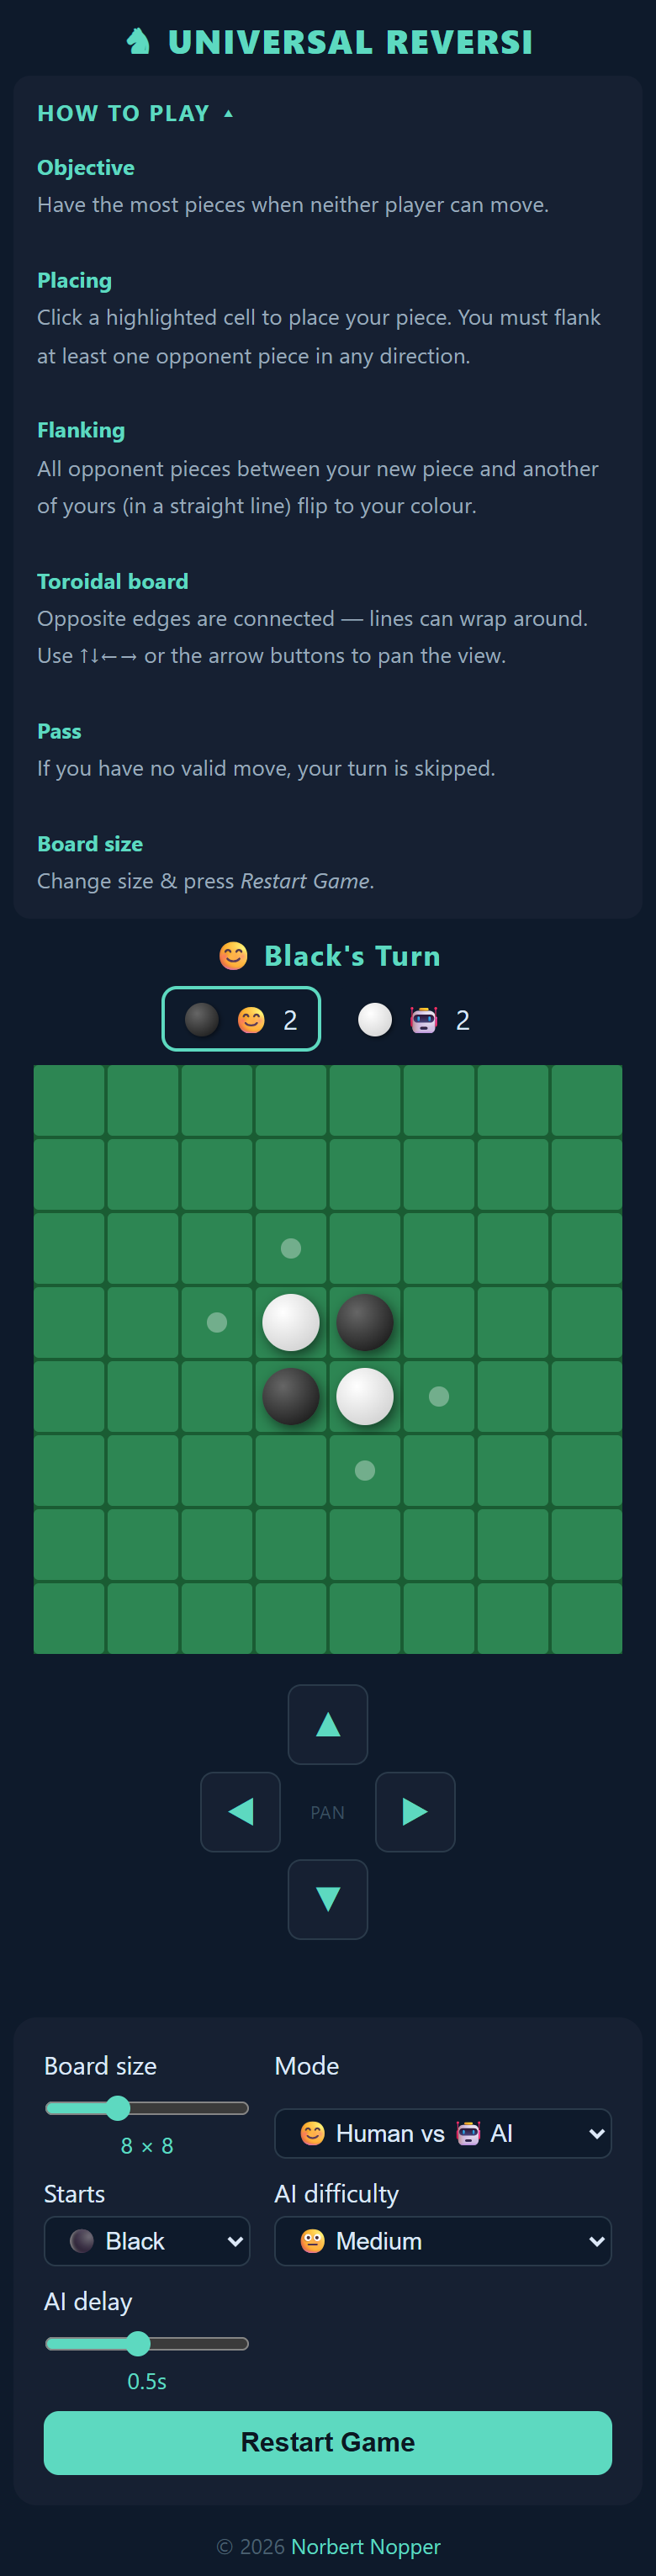
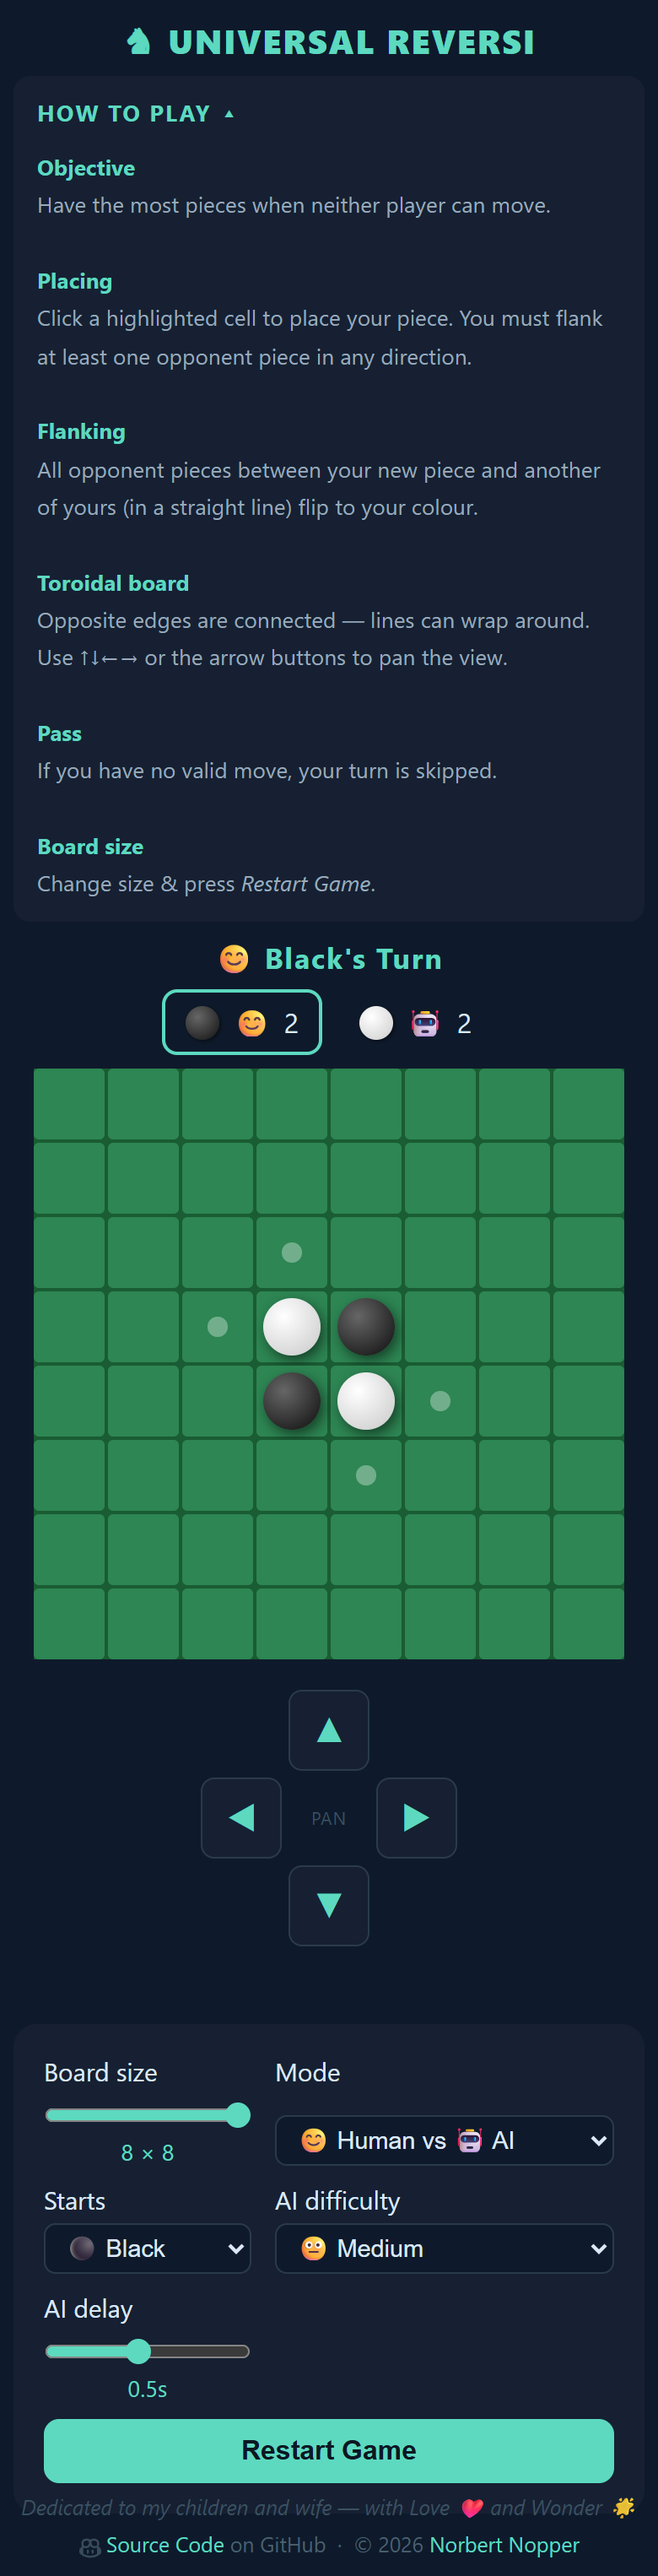
Improving visual quality

diff --git a/index.html b/index.html
@@ -664,7 +664,7 @@ init(); render(); scheduleAI();
 </script>
 
 <footer style="margin-top:-20px; font-size:.78rem; color:#4a6070; text-align:center;">
-  <div style="margin-bottom:6px; font-style:italic; color:#3a5060;">Dedicated to my children and my wife — with Love ❤️ and Wonder 🌟</div>
+  <div style="margin-bottom:6px; font-style:italic; color:#3a5060;">Dedicated to my children and wife — with Love ❤️ and Wonder 🌟</div>
   <svg xmlns="http://www.w3.org/2000/svg"width="13" height="13" viewBox="0 0 16 16" fill="currentColor" style="vertical-align:middle;opacity:.7;" aria-label="GitHub Copilot"><path d="M7.998 15.035c-4.562 0-7.873-2.914-7.998-3.749V9.338c.085-.628.677-1.686 1.588-2.065.013-.07.024-.143.036-.218.029-.183.06-.384.126-.612-.201-.508-.254-1.084-.254-1.656 0-.87.128-1.769.693-2.484.579-.733 1.494-1.124 2.724-1.261 1.206-.134 2.262.034 2.944.765.05.053.096.108.139.165.044-.057.094-.112.143-.165.682-.731 1.738-.899 2.944-.765 1.23.137 2.145.528 2.724 1.261.566.715.693 1.614.693 2.484 0 .572-.053 1.148-.254 1.656.066.228.098.429.126.612.012.076.024.148.037.218.924.385 1.522 1.471 1.591 2.095v1.872c0 .766-3.351 3.795-8.002 3.795Zm0-1.485c2.28 0 4.584-1.11 5.002-1.433V7.862l-.023-.116c-.49.21-1.075.291-1.727.291-1.146 0-2.059-.327-2.71-.991A3.222 3.222 0 0 1 8 6.303a3.24 3.24 0 0 1-.544.743c-.65.664-1.563.991-2.71.991-.652 0-1.236-.081-1.727-.291l-.023.116v4.255c.419.323 2.722 1.433 5.002 1.433ZM6.762 2.83c-.193-.206-.637-.413-1.682-.297-1.019.113-1.479.404-1.713.7-.247.312-.369.789-.369 1.554 0 .793.129 1.171.308 1.371.162.181.519.379 1.442.379.853 0 1.339-.235 1.638-.54.315-.322.527-.827.617-1.553.117-.935-.037-1.395-.241-1.614Zm4.155-.297c-1.044-.116-1.488.091-1.681.297-.204.219-.359.679-.242 1.614.091.726.303 1.231.618 1.553.299.305.784.54 1.638.54.922 0 1.28-.198 1.442-.379.179-.2.308-.578.308-1.371 0-.765-.123-1.242-.37-1.554-.233-.296-.693-.587-1.713-.7Z"/><path d="M6.25 9.037a.75.75 0 0 1 .75.75v1.501a.75.75 0 0 1-1.5 0V9.787a.75.75 0 0 1 .75-.75Zm4.25.75v1.501a.75.75 0 0 1-1.5 0V9.787a.75.75 0 0 1 1.5 0Z"/></svg>
   <a href="https://github.com/McNopper/UniversalReversi" target="_blank"" style="color:var(--accent); text-decoration:none;">Source Code</a> on GitHub
   &nbsp;·&nbsp;

diff --git a/README.md b/README.md
@@ -2,7 +2,7 @@
 
 *💡 by [Norbert Nopper](https://nopper.tv)* - an implementation of Reversi with an infinite playing field.
 
-*Dedicated to my children and my wife — with Love ❤️ and Wonder 🌟*
+*Dedicated to my children and wife — with Love ❤️ and Wonder 🌟*
 
 ## Digital Devices
 